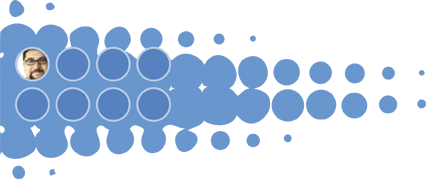
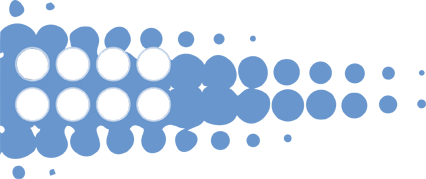
last changes thursday

Changed region(s): [[0.0305, 0.4749, 0.3967, 0.6704], [0.0305, 0.2514, 0.3967, 0.4469]]

diff --git a/css/layout.css b/css/layout.css
@@ -29,9 +29,8 @@ hgroup, nav, section {
 /*HEADER*/
 #headerwrapper{	
 	width:1024px;
-	height:375px;	
-	z-index:1000;
-	position:fixed;
+	height:470px;	
+	z-index:1000;	
 	top:0px;
 }
 	#headertopcontainer{
@@ -63,7 +62,7 @@ hgroup, nav, section {
 			 width:161px;
 			 height:48px;
 			 float:left;
-			 opacity:0;
+			 opacity:0;			 
 		}
 		#shadowworks{
 			background-image:url(../img/headerworkscursorlayer.png);
@@ -71,7 +70,7 @@ hgroup, nav, section {
 			 width:163px;
 			 height:54px;
 			 float:left;
-			 opacity:0;
+			 opacity:0;			
 		}
 		#shadowblog{
 			background-image:url(../img/headerblogcursorlayer.png);
@@ -79,7 +78,7 @@ hgroup, nav, section {
 			 width:144px;
 			 height:57px;
 			 float:left;
-			 opacity:0;
+			 opacity:0;			 
 		}
 		#shadowcontact{
 			background-image:url(../img/headercontactcursorlayer.png);			
@@ -87,10 +86,10 @@ hgroup, nav, section {
 			 width:145px;
 			 height:91px;
 			 float:left;
-			 opacity:0;
+			 opacity:0;			
 		}		
 	#headerbottomcontainer{
-		background-image:url(../img/header2.png);
+		background-image:url(../img/header.png);
 		width:1024px;
 		height:372px;
 		position:absolute;
@@ -201,7 +200,7 @@ hgroup, nav, section {
 	width:1024px;
 	height:1024px;
 	/*background-color:#09C;*/
-	margin:186px 0 0 0;
+	margin:-284px 0 0 0;
 }
 /*FOOTER*/
 #footerwrapper{
@@ -285,7 +284,123 @@ hgroup, nav, section {
 				float:left;
 			}
 
+/*index*/
 
+#developinfoleft{
+	float:left; 
+	width:585px;
+	position: relative;	
+}
+	#developinfofaces{		
+	    float: left;
+	    height: 76px;
+	    margin: 188px 0 0 16px;
+	    position: absolute;
+	    width: 164px;	
+	    z-index: 101;    
+	}	
+		.developerinfofacebox{
+			float:left;
+			width: 28px;
+			height: 29px;
+			margin: 2px 11px 9px 2px;
+			cursor: pointer;				
+		}
+	#developinfobubbles{
+		background-image:url(../img/homebluebubbles.png); 
+		width:426px; 
+		height:179px; 
+		float:left; 
+		position:relative; 
+		margin:140px 0 0 1px;
+	}
+	#developinfopicture{
+		background-image:url(../img/picturedeveloper2.png); 
+		width:290px;
+		height:335px; 
+		margin-left:-133px; 
+		float: right;
+	}
+#developinforight{
+	float: left;
+}
+	#developinforightcontainer1{
+    	width:240px; margin:113px 0 0 35px; height:178px; background-color:#e4e4e4; float:left;
+    }
+    #developinforightcontainer2{
+    	float:left; background-image:url(../img/developerinforight.png); height:178px; width:93px; margin:113px 0px 0 0;"
+    }
+    #developinfotextcontainer{
+    	position:absolute; margin:113px 0 0 35px;
+    }
+    #developername{
+    	text-decoration:underline; font-style:normal;
+    }
+    #developerrange{
+    	font-weight:bold; font-style:italic;    	
+    }
+    #developercomment{
+    	width: 325px;
+    }  
+    #medailcontainer{
+    	margin:0 0 0 35px;
+    }
+        
+.frameworkicon{
+	width:30px;
+	height:30px;
+	background-color:#e4e4e4;
+	-webkit-border-radius: 3px;
+	-moz-border-radius: 3px;
+	border-radius: 3px;
+	margin:13px 8px 0 0;
+	float:left;
+}
+#bodyseparator{
+	background-image:url(../img/bodyseparator.png); height:20px; width:905px; float:left; background-repeat:no-repeat; margin:38px 0 38px 60px;
+}
+.blogmaincontainer{
+	margin: 141px 0 0 89px; width: 290px;
+}
+.blogmessagetitle{
+	font-weight:bold;		
+	font-family:Arial;
+	font-size:14px;
+}
+.blogmessagedate{
+	font-style:italic;
+	font-family:Arial;
+	font-size:14px;
+}
+.blogcontainer{
+	text-align:center; color:#fff; margin:0px 0px 54px 0px;
+}
+.lastaccess{
+	color:#b0cce6;
+	font-weight:bold;
+	font-size:17px;
+}
+.teammediacontainers{
+	background-image:url(../img/teammediacontainer.png); width:357px; height:304px; margin:55px 0 0 82px; z-index:-1000;
+}
+.bloglastaccessrow{
+	float:left; background-image:url(../img/entradasanterioresarrow.png); width:12px; height:15px;
+}
+#bodybottomright{
+	float:left; background-image:url(../img/bodybottomright.png); width:530px; height:1134px; background-repeat:no-repeat; margin:0 0 0 50px;
+}
+
+
+.techinfo{
+	float:left;
+	width:160px;
+	height:46px;
+	margin:41px 0px 0px 5px;
+}
+.techname{
+	color:#3889db;
+	font-size:18px;
+}
 /*works*/
 #worktitledesc{
 	margin:290px 0px 23px 0px;

diff --git a/index.php b/index.php
@@ -1,81 +1,68 @@
 <?php include("header.php");?>
 <script>
-	$(document).ready(function(){	
+	function setdevelopersinfo(){
+		/*Set developer info*/
+		developersinfoarray=new Array;		
+		developersinfoarray[0]=new Array("url('img/dev.png')","jose luis","Developer","XXXXXXXXXXXX XXXXXXXXXXXX XXXXXXXXX XXXXXXXXXXX XXXXXXXXXXXXX XXXXXXXXXXXX XXXXXXXXXXXX ...","");
+		developersinfoarray[1]=new Array("url('img/picturedeveloper1.png')","Abraham Barrera","Desarrollador","Desde pequeño le gustó crear cosas, y ...","");
+		
+		/*Set developer medails*/
+		developermeadils=new Array;
+		developermeadils[0]=new Array("php","sql");
+		developermeadils[1]=new Array("php","ruby","sql");
+	}	
+	function medails(developercode){
+		var strmedails="";
+		for (var i=0; i<=((developermeadils[developercode].length)-1); i++){
+			strmedails+="<div class='frameworkicon'>"+developermeadils[developercode][i]+"</div>";
+		}
+		$("#medailcontainer").html(strmedails);		
+	}
+	$(document).ready(function(){
+		setdevelopersinfo();	
 	   /*$("#bodywrapper").css({'background-color' : '#2c5283', 'margin' : '127px 0 0'});	
 	   $("#pagecomment").html("Contactanos<br>");	*/   
-	   $("#bodywrapper").css("height","1410px");	   	   	   		
+	   $("#bodywrapper").css("height","1410px");
+	   
+	   $(".developerinfofacebox").click(function(){
+	   		
+	   		$("#developinfopicture").css("background-image",developersinfoarray[$(this).attr("dev")][0]);
+	   		
+	   		$("#developername").html(developersinfoarray[$(this).attr("dev")][1]);
+	   		$("#developerrange").html(developersinfoarray[$(this).attr("dev")][2]);
+	   		$("#developercomment").html(developersinfoarray[$(this).attr("dev")][3]);
+	   		
+	   		medails($(this).attr("dev"));
+	   			   		    
+	   });	   	   	   		
 	});	
 </script>
-<style>
-	.frameworkicon{
-		width:30px;
-		height:30px;
-		background-color:#e4e4e4;
-		-webkit-border-radius: 3px;
-		-moz-border-radius: 3px;
-		border-radius: 3px;
-		margin:13px 8px 0 0;
-		float:left;
-	}
-	#bodyseparator{
-		background-image:url(img/bodyseparator.png); height:20px; width:905px; float:left; background-repeat:no-repeat; margin:38px 0 38px 60px;
-	}
-	.blogmaincontainer{
-		margin: 141px 0 0 89px; width: 290px;
-	}
-	.blogmessagetitle{
-		font-weight:bold;		
-		font-family:Arial;
-		font-size:14px;
-	}
-	.blogmessagedate{
-		font-style:italic;
-		font-family:Arial;
-		font-size:14px;
-	}
-	.blogcontainer{
-		text-align:center; color:#fff; margin:0px 0px 54px 0px;
-	}
-	.lastaccess{
-		color:#b0cce6;
-		font-weight:bold;
-		font-size:17px;
-	}
-	.teammediacontainers{
-		background-image:url(img/teammediacontainer.png); width:357px; height:304px; margin:55px 0 0 82px; z-index:-1000;
-	}
-	.bloglastaccessrow{
-		float:left; background-image:url(img/entradasanterioresarrow.png); width:12px; height:15px;
-	}
-	#bodybottomright{
-		float:left; background-image:url(img/bodybottomright.png); width:530px; height:1134px; background-repeat:no-repeat; margin:0 0 0 50px;
-	}
-	
-	
-	.techinfo{
-		float:left;
-		width:160px;
-		height:46px;
-		margin:41px 0px 0px 5px;
-	}
-	.techname{
-		color:#3889db;
-		font-size:18px;
-	}
-</style>
-<div style="float:left; width:585px;">	
-	<div style="background-image:url(img/homebluebubbles.png); width:426px; height:179px; float:left; position:relative; margin:140px 0 0 1px;"></div>   
-    <div style="background-image:url(img/picturedeveloper2.png); width:290px; height:335px; margin-left:-133px; float:left;"></div>      
+<div id="developinfoleft">	
+	<div id="developinfofaces">
+		<div class="developerinfofacebox" dev="0"><img width="26" height="29" src="img/developerthumbnails.png" /></div>
+		<div class="developerinfofacebox" dev="0"><img width="26" height="29" src="img/developerthumbnails.png" /></div>
+		<div class="developerinfofacebox" dev="0"><img width="26" height="29" src="img/developerthumbnails.png" /></div>
+		<div class="developerinfofacebox" dev="0"><img width="26" height="29" src="img/developerthumbnails.png" /></div>
+		<div class="developerinfofacebox" dev="0"><img width="26" height="29" src="img/developerthumbnails.png" /></div>				
+		<div class="developerinfofacebox" dev="1"><img width="26" height="29" src="img/developerthumbnails2.png" /></div>
+		<div class="developerinfofacebox" dev="1"><img width="26" height="29" src="img/developerthumbnails2.png" /></div>
+		<div class="developerinfofacebox" dev="1"><img width="26" height="29" src="img/developerthumbnails2.png" /></div>		
+	</div>
+	<div id="developinfobubbles"></div>   
+    <div id="developinfopicture"></div>      
 </div>
-<div style="float:left;">
-    <div id="developerinfo" style="width:240px; margin:113px 0 0 35px; height:178px; background-color:#e4e4e4; float:left;"></div>
-    <div style="float:left; background-image:url(img/developerinforight.png); height:178px; width:93px; margin:113px 0px 0 0;"></div>
-    <div style="position:absolute; margin:113px 0 0 35px;">
-<span class="pagecomment" style="text-decoration:underline; font-style:normal;">Abraham Barrera</span><br />
-<span style="font-weight:bold; font-style:italic;">Desarrollador</span><br />
-Desde pequeño le gustó crear cosas, y no descubrió<br /> sino hasta la enseñanza media que la programación de<br /> computadores es la mejor forma de crear e innovar. <br />Vibra desarrollando para móviles (iPhone/iPad),<br /> aunque también desarrolla en otras tecnologías<br /> como J2EE y Python
-    </div>
-    <div style="margin:0 0 0 35px;">
+<div id="developinforight">	
+    <div id="developinforightcontainer1"></div>
+    <div id="developinforightcontainer2"></div>    
+    <div id="developinfotextcontainer">
+		<div id="developername" class="pagecomment">Abraham Barrera</div>
+		<div id="developerrange" >Desarrollador</div>
+		<div id="developercomment">
+			Desde pequeño le gustó crear cosas, y no descubrió sino hasta la enseñanza media que la programación de computadores es la mejor forma de crear e innovar. Vibra desarrollando para móviles (iPhone/iPad),aunque también desarrolla en otras tecnologías
+			 como J2EE y Python		 
+	 	</div>
+ 	</div>
+    <div id="medailcontainer">
     	<div class="frameworkicon"></div>
         <div class="frameworkicon"></div>
         <div class="frameworkicon"></div>
